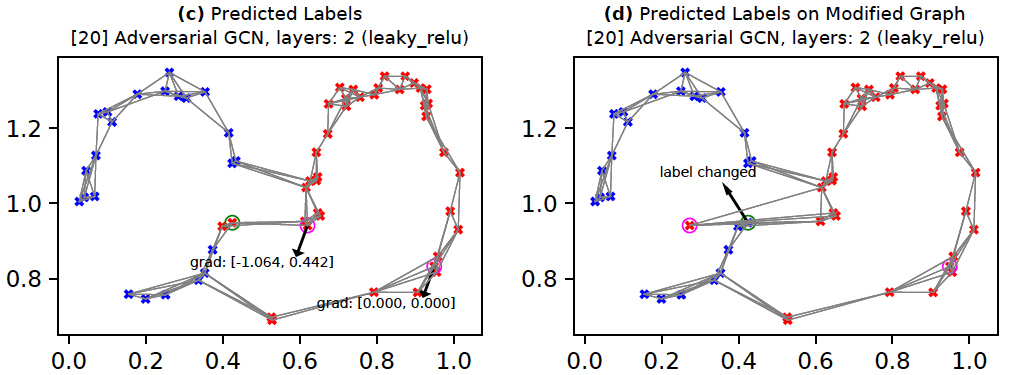
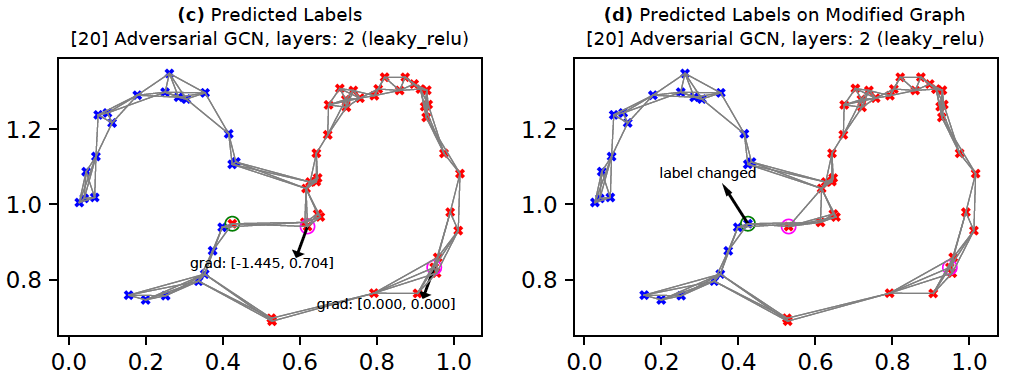
changed stopping criteria for GCN training

diff --git a/python/graph/simple_gcn.py b/python/graph/simple_gcn.py
@@ -213,6 +213,13 @@ class AdversarialUpdater(SampleUpdater):
             neighbor_nodes = self.ga.sample_neighbors(test_node, gcn.fit_A, hops=self.opts.n_layers,
                                                       n_neighbors=self.opts.n_sample_neighbors,
                                                       neighbor_cache=self.neighbor_cache)
+
+            """
+            Remove all attack nodes which have already been added to update_nodes
+            because we only apply at most one adversarial perturbation per attack node.
+            """
+            neighbor_nodes = np.array([v for v in neighbor_nodes if v not in update_nodes], dtype=np.int32)
+
             best_attacks_for_each_target = self.attack_model.suggest_nodes([test_node], neighbor_nodes)
             best, feature_grads = best_attacks_for_each_target[0]
             if best is not None:
@@ -548,7 +555,8 @@ class SimpleGCN(object):
         feed_dict = {self.X: self.fit_x, self.y_labeled: y_labeled_enc,
                      self.labeled_indexes: labeled_indexes}
         feed_dict.update(self.get_adjacency_variable_map())
-        prev_loss = -np.infty
+        loss_history_window = 20
+        prev_losses = []
         epoch = 0
         while epoch < self.opts.n_epochs:
             tm = Timer()
@@ -562,9 +570,11 @@ class SimpleGCN(object):
                 #     logger.debug(tm_p.message("[%d] #updated nodes: %d" % (epoch, len(prev_node_values[0]))))
 
             _, loss = self.session.run([self.train_loss_op, self.xentropy_loss], feed_dict=feed_dict)
-            if epoch > 0 and abs(loss - prev_loss) < self.opts.convergence_tol:
-                logger.debug("Exiting at epoch %d/%d (diff=%f)" % (epoch, self.opts.n_epochs, abs(loss - prev_loss)))
-                break
+            if epoch >= loss_history_window:
+                diff_losses = abs(loss - np.mean(prev_losses))
+                if diff_losses < self.opts.convergence_tol:
+                    logger.debug("Exiting at epoch %d/%d (diff=%f)" % (epoch, self.opts.n_epochs, diff_losses))
+                    break
 
             if perturb:
                 # restore original values
@@ -573,12 +583,14 @@ class SimpleGCN(object):
             if False and (epoch + 1) % 10 == 0:
                 err = self.get_prediction_error()
                 logger.debug(tm.message("[%d] loss: %f, pred_err: %f" % (epoch+1, loss, err)))
-            prev_loss = loss
+            prev_losses.append(loss)
+            if len(prev_losses) > loss_history_window:
+                del prev_losses[0]
             epoch += 1
 
         err = self.get_prediction_error()
         logger.debug(fit_tm.message("SimpleGCN fitted epochs %d/%d, loss: %f, err: %f" %
-                                    (epoch, self.opts.n_epochs, prev_loss, err)))
+                                    (epoch, self.opts.n_epochs, np.mean(prev_losses), err)))
 
     def decision_function(self):
         """ Returns predicted probability per class per node (softmax output) """

diff --git a/README.md b/README.md
@@ -435,7 +435,7 @@ GCNs (Kipf and Welling, 2017) are a neural network based technique for learning 
 
 **Attack:** We will employ a simple form of node feature-modification based attack as proposed in *Nettack* (Zugner et al., 2018). Here, the goal is to change the label of the target node from its current most likely label (c_old) to its second-most likely label (c_new). For this, we first compute the gradient of the difference in target node logits between c_new and c_old w.r.t the attacker node(s). Next, we find the attacker node which has the highest absolute gradient for any feature. We then find the minimum change required for the corresponding attacker node and feature such that the target node's label prediction changes. Finally, we add this minimum required change to the attacker node.
 
-Figure **(c)** shows the gradients for the two attack nodes. In this example setup, our GCN has two layers which implies a maximum of two hops for the information/gradient flow during forward-backward propagation. Since the right-most attacker node is more than two-hop distance away from the target node, it has *immediate* gradient=[0, 0] (in reality, computing exact gradient on nodes farther away is tricky). The left attacker node's first feature has the highest absolute gradient (2.245). Therefore, we move the left attacker along the first feature axis in the direction suggested by the gradient -- in this case we move the attacker node to left. We see in Figure **(d)** that the target node's predicted label changes from red to blue by moving the attacker node as explained. We could, alternatively, search along the full gradient direction instead of just the highest-gradient feature. Moreover, we could limit the search for the best attack node to only those attack nodes which are within as many hops from the target as there are layers in the GCN.
+Figure **(c)** shows the gradients for the two attack nodes. In this example setup, our GCN has two layers which implies a maximum of two hops for the information/gradient flow during forward-backward propagation. Since the right-most attacker node is more than two-hop distance away from the target node, it has *immediate* gradient=[0, 0] (in reality, computing exact gradient on nodes farther away is tricky). The left attacker node's first feature has the highest absolute gradient (3.870). Therefore, we move the left attacker along the first feature axis in the direction suggested by the gradient -- in this case we move the attacker node to left. We see in Figure **(d)** that the target node's predicted label changes from red to blue by moving the attacker node as explained. We could, alternatively, search along the full gradient direction instead of just the highest-gradient feature. Moreover, we could limit the search for the best attack node to only those attack nodes which are within as many hops from the target as there are layers in the GCN.
 
 **Implementation:** (Zugner et al., 2018) have proposed a very simple network for the GCN (nettack). This simplifies computation of the derivative of logit difference w.r.t input features. It also helps scale the network better in the transductive setting. However, since our intent here is to understand GCNs and experiment with them in a minimally restricted manner, we have implemented the GCN in this codebase so that we can employ any arbitrarily complex network with arbitrary number of layers. *Also, (Zugner et al., 2018) supports updates to the adjacency matrix, but we currently do not.*
 
